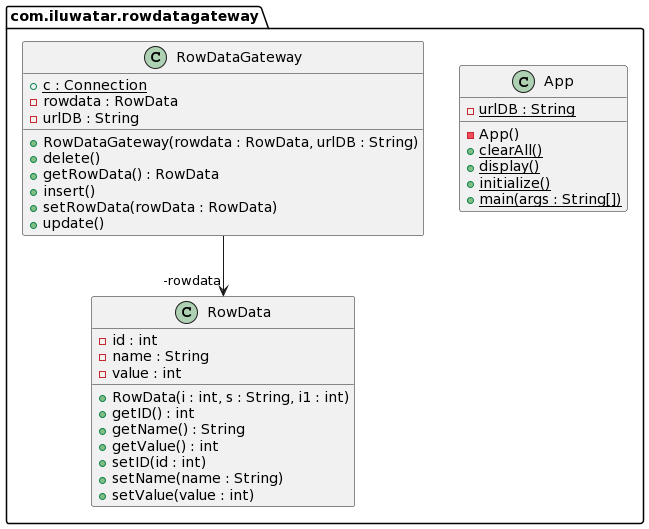
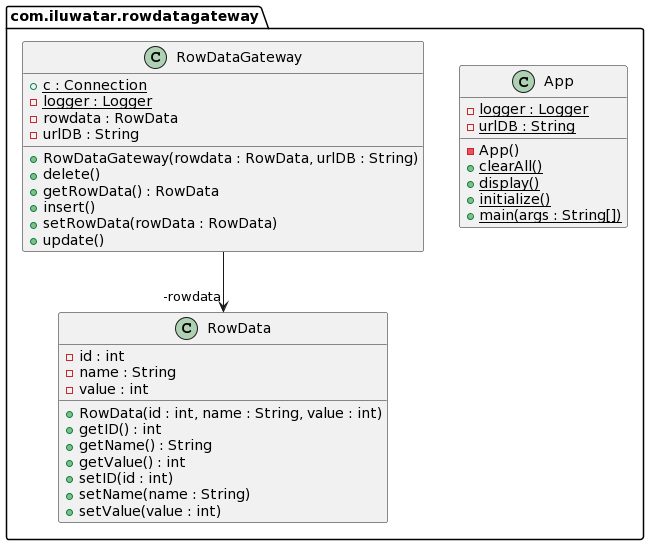
#1312 Implemented feedback on logger and javadocs. Also added license to all classes.

Changed region(s): [[0.0, 0.0, 0.9861, 0.4839], [0.0308, 0.5142, 0.9861, 0.9981], [0.7088, 0.121, 0.9861, 0.4234]]

diff --git a/row-data-gateway/src/main/java/com/iluwatar/rowdatagateway/RowDataGateway.java b/row-data-gateway/src/main/java/com/iluwatar/rowdatagateway/RowDataGateway.java
@@ -1,10 +1,41 @@
+/*
+ * This project is licensed under the MIT license. Module model-view-viewmodel is using ZK framework licensed under LGPL (see lgpl-3.0.txt).
+ *
+ * The MIT License
+ * Copyright © 2014-2022 Ilkka Seppälä
+ *
+ * Permission is hereby granted, free of charge, to any person obtaining a copy
+ * of this software and associated documentation files (the "Software"), to deal
+ * in the Software without restriction, including without limitation the rights
+ * to use, copy, modify, merge, publish, distribute, sublicense, and/or sell
+ * copies of the Software, and to permit persons to whom the Software is
+ * furnished to do so, subject to the following conditions:
+ *
+ * The above copyright notice and this permission notice shall be included in
+ * all copies or substantial portions of the Software.
+ *
+ * THE SOFTWARE IS PROVIDED "AS IS", WITHOUT WARRANTY OF ANY KIND, EXPRESS OR
+ * IMPLIED, INCLUDING BUT NOT LIMITED TO THE WARRANTIES OF MERCHANTABILITY,
+ * FITNESS FOR A PARTICULAR PURPOSE AND NONINFRINGEMENT. IN NO EVENT SHALL THE
+ * AUTHORS OR COPYRIGHT HOLDERS BE LIABLE FOR ANY CLAIM, DAMAGES OR OTHER
+ * LIABILITY, WHETHER IN AN ACTION OF CONTRACT, TORT OR OTHERWISE, ARISING FROM,
+ * OUT OF OR IN CONNECTION WITH THE SOFTWARE OR THE USE OR OTHER DEALINGS IN
+ * THE SOFTWARE.
+ */
 package com.iluwatar.rowdatagateway;
 
 import java.sql.Connection;
 import java.sql.DriverManager;
 import java.sql.Statement;
+import org.slf4j.Logger;
+import org.slf4j.LoggerFactory;
 
 public class RowDataGateway {
+  /**
+   * Logger.
+   */
+  private static final Logger logger = LoggerFactory.getLogger(RowDataGateway.class);
+
   /**
    * Variables to store the URL and rowData.
    */
@@ -49,13 +80,13 @@ public class RowDataGateway {
 
       stmt = c.createStatement();
       String sql = "INSERT INTO rowDataTable (ID,NAME,VALUE) " + "VALUES (" + rowdata.getID() + ", '" + rowdata.getName() + "', " + rowdata.getValue() + ");";
-      System.out.println(sql);
+      logger.info(sql);
       stmt.executeUpdate(sql);
       stmt.close();
       c.commit();
       c.close();
     } catch (Exception e) {
-      System.err.println(e.getClass().getName() + ": " + e.getMessage());
+      logger.info(e.getClass().getName() + ": " + e.getMessage());
       System.exit(0);
     }
   }
@@ -71,12 +102,13 @@ public class RowDataGateway {
 
       stmt = c.createStatement();
       String sql = "UPDATE rowDataTable set NAME = '" + rowdata.getName() + "', VALUE = " + rowdata.getValue() + " where ID=" + rowdata.getID() + ";";
+      logger.info(sql);
       stmt.executeUpdate(sql);
       c.commit();
       stmt.close();
       c.close();
     } catch (Exception e) {
-      System.err.println(e.getClass().getName() + ": " + e.getMessage());
+      logger.info(e.getClass().getName() + ": " + e.getMessage());
       System.exit(0);
     }
   }
@@ -92,12 +124,13 @@ public class RowDataGateway {
 
       stmt = c.createStatement();
       String sql = "DELETE FROM rowDataTable WHERE NAME = '" + rowdata.getName() + "' AND VALUE = " + rowdata.getValue() + " AND ID=" + rowdata.getID() + ";";
+      logger.info(sql);
       stmt.executeUpdate(sql);
       c.commit();
       stmt.close();
       c.close();
     } catch (Exception e) {
-      System.err.println(e.getClass().getName() + ": " + e.getMessage());
+      logger.info(e.getClass().getName() + ": " + e.getMessage());
       System.exit(0);
     }
   }

diff --git a/row-data-gateway/src/main/java/com/iluwatar/rowdatagateway/App.java b/row-data-gateway/src/main/java/com/iluwatar/rowdatagateway/App.java
@@ -1,3 +1,27 @@
+/*
+ * This project is licensed under the MIT license. Module model-view-viewmodel is using ZK framework licensed under LGPL (see lgpl-3.0.txt).
+ *
+ * The MIT License
+ * Copyright © 2014-2022 Ilkka Seppälä
+ *
+ * Permission is hereby granted, free of charge, to any person obtaining a copy
+ * of this software and associated documentation files (the "Software"), to deal
+ * in the Software without restriction, including without limitation the rights
+ * to use, copy, modify, merge, publish, distribute, sublicense, and/or sell
+ * copies of the Software, and to permit persons to whom the Software is
+ * furnished to do so, subject to the following conditions:
+ *
+ * The above copyright notice and this permission notice shall be included in
+ * all copies or substantial portions of the Software.
+ *
+ * THE SOFTWARE IS PROVIDED "AS IS", WITHOUT WARRANTY OF ANY KIND, EXPRESS OR
+ * IMPLIED, INCLUDING BUT NOT LIMITED TO THE WARRANTIES OF MERCHANTABILITY,
+ * FITNESS FOR A PARTICULAR PURPOSE AND NONINFRINGEMENT. IN NO EVENT SHALL THE
+ * AUTHORS OR COPYRIGHT HOLDERS BE LIABLE FOR ANY CLAIM, DAMAGES OR OTHER
+ * LIABILITY, WHETHER IN AN ACTION OF CONTRACT, TORT OR OTHERWISE, ARISING FROM,
+ * OUT OF OR IN CONNECTION WITH THE SOFTWARE OR THE USE OR OTHER DEALINGS IN
+ * THE SOFTWARE.
+ */
 package com.iluwatar.rowdatagateway;
 
 import java.sql.Connection;
@@ -5,6 +29,8 @@ import java.sql.DriverManager;
 import java.sql.ResultSet;
 import java.sql.SQLException;
 import java.sql.Statement;
+import org.slf4j.Logger;
+import org.slf4j.LoggerFactory;
 
 /**
  * This acts as a 'gateway' to a single record in a database, with one instance per row.
@@ -16,6 +42,10 @@ import java.sql.Statement;
  * through Insert, Update and Delete methods in {@link RowDataGateway}</p>
  */
 public class App {
+  /**
+   * Logger.
+   */
+  private static final Logger logger = LoggerFactory.getLogger(App.class);
   /**
    * The URL that determines the database to connect to. In this example code, this is SQLLite's test database.
    */
@@ -71,7 +101,7 @@ public class App {
       stmt.close();
       c.close();
     } catch (Exception e) {
-      System.err.println(e.getClass().getName() + ": " + e.getMessage());
+      logger.info(e.getClass().getName() + ": " + e.getMessage());
       System.exit(0);
     }
   }
@@ -90,7 +120,7 @@ public class App {
       stmt.close();
       c.close();
     } catch (Exception e) {
-      System.err.println(e.getClass().getName() + ": " + e.getMessage());
+      logger.info(e.getClass().getName() + ": " + e.getMessage());
       System.exit(0);
     }
   }
@@ -112,17 +142,13 @@ public class App {
         int id = rs.getInt("id");
         String  name = rs.getString("name");
         int value  = rs.getInt("value");
-
-        System.out.println("ID = " + id);
-        System.out.println("NAME = " + name);
-        System.out.println("VALUE = " + value);
-        System.out.println();
+        logger.info("\nID = " + id + "\nNAME = " + name + "\nVALUE = " + value);
       }
       rs.close();
       stmt.close();
       c.close();
     } catch (Exception e) {
-      System.err.println(e.getClass().getName() + ": " + e.getMessage());
+      logger.info(e.getClass().getName() + ": " + e.getMessage());
       System.exit(0);
     }
   }

diff --git a/row-data-gateway/src/main/java/com/iluwatar/rowdatagateway/RowData.java b/row-data-gateway/src/main/java/com/iluwatar/rowdatagateway/RowData.java
@@ -1,3 +1,27 @@
+/*
+ * This project is licensed under the MIT license. Module model-view-viewmodel is using ZK framework licensed under LGPL (see lgpl-3.0.txt).
+ *
+ * The MIT License
+ * Copyright © 2014-2022 Ilkka Seppälä
+ *
+ * Permission is hereby granted, free of charge, to any person obtaining a copy
+ * of this software and associated documentation files (the "Software"), to deal
+ * in the Software without restriction, including without limitation the rights
+ * to use, copy, modify, merge, publish, distribute, sublicense, and/or sell
+ * copies of the Software, and to permit persons to whom the Software is
+ * furnished to do so, subject to the following conditions:
+ *
+ * The above copyright notice and this permission notice shall be included in
+ * all copies or substantial portions of the Software.
+ *
+ * THE SOFTWARE IS PROVIDED "AS IS", WITHOUT WARRANTY OF ANY KIND, EXPRESS OR
+ * IMPLIED, INCLUDING BUT NOT LIMITED TO THE WARRANTIES OF MERCHANTABILITY,
+ * FITNESS FOR A PARTICULAR PURPOSE AND NONINFRINGEMENT. IN NO EVENT SHALL THE
+ * AUTHORS OR COPYRIGHT HOLDERS BE LIABLE FOR ANY CLAIM, DAMAGES OR OTHER
+ * LIABILITY, WHETHER IN AN ACTION OF CONTRACT, TORT OR OTHERWISE, ARISING FROM,
+ * OUT OF OR IN CONNECTION WITH THE SOFTWARE OR THE USE OR OTHER DEALINGS IN
+ * THE SOFTWARE.
+ */
 package com.iluwatar.rowdatagateway;
 
 public class RowData {
@@ -9,14 +33,14 @@ public class RowData {
    * Public constructor.
    * this is the ID of the row, should always be present.
    * the following data types and the number of them should vary depending on the Columns of the SQL Table.
-   * @param i int
-   * @param s String
-   * @param i1 int
+   * @param id id of the row
+   * @param name name of the row
+   * @param value value of the row
    */
-  public RowData(int i, String s, int i1) {
-    this.id = i;
-    this.name = s;
-    this.value = i1;
+  public RowData(int id, String name, int value) {
+    this.id = id;
+    this.name = name;
+    this.value = value;
   }
   /**
    * Gets current name of the rowData.

diff --git a/row-data-gateway/src/test/java/com/iluwatar/rowdatagateway/AppTest.java b/row-data-gateway/src/test/java/com/iluwatar/rowdatagateway/AppTest.java
@@ -1,3 +1,27 @@
+/*
+ * This project is licensed under the MIT license. Module model-view-viewmodel is using ZK framework licensed under LGPL (see lgpl-3.0.txt).
+ *
+ * The MIT License
+ * Copyright © 2014-2022 Ilkka Seppälä
+ *
+ * Permission is hereby granted, free of charge, to any person obtaining a copy
+ * of this software and associated documentation files (the "Software"), to deal
+ * in the Software without restriction, including without limitation the rights
+ * to use, copy, modify, merge, publish, distribute, sublicense, and/or sell
+ * copies of the Software, and to permit persons to whom the Software is
+ * furnished to do so, subject to the following conditions:
+ *
+ * The above copyright notice and this permission notice shall be included in
+ * all copies or substantial portions of the Software.
+ *
+ * THE SOFTWARE IS PROVIDED "AS IS", WITHOUT WARRANTY OF ANY KIND, EXPRESS OR
+ * IMPLIED, INCLUDING BUT NOT LIMITED TO THE WARRANTIES OF MERCHANTABILITY,
+ * FITNESS FOR A PARTICULAR PURPOSE AND NONINFRINGEMENT. IN NO EVENT SHALL THE
+ * AUTHORS OR COPYRIGHT HOLDERS BE LIABLE FOR ANY CLAIM, DAMAGES OR OTHER
+ * LIABILITY, WHETHER IN AN ACTION OF CONTRACT, TORT OR OTHERWISE, ARISING FROM,
+ * OUT OF OR IN CONNECTION WITH THE SOFTWARE OR THE USE OR OTHER DEALINGS IN
+ * THE SOFTWARE.
+ */
 package com.iluwatar.rowdatagateway;
 
 import org.junit.jupiter.api.Test;

diff --git a/row-data-gateway/src/test/java/com/iluwatar/rowdatagateway/RowDataGatewayTest.java b/row-data-gateway/src/test/java/com/iluwatar/rowdatagateway/RowDataGatewayTest.java
@@ -1,3 +1,27 @@
+/*
+ * This project is licensed under the MIT license. Module model-view-viewmodel is using ZK framework licensed under LGPL (see lgpl-3.0.txt).
+ *
+ * The MIT License
+ * Copyright © 2014-2022 Ilkka Seppälä
+ *
+ * Permission is hereby granted, free of charge, to any person obtaining a copy
+ * of this software and associated documentation files (the "Software"), to deal
+ * in the Software without restriction, including without limitation the rights
+ * to use, copy, modify, merge, publish, distribute, sublicense, and/or sell
+ * copies of the Software, and to permit persons to whom the Software is
+ * furnished to do so, subject to the following conditions:
+ *
+ * The above copyright notice and this permission notice shall be included in
+ * all copies or substantial portions of the Software.
+ *
+ * THE SOFTWARE IS PROVIDED "AS IS", WITHOUT WARRANTY OF ANY KIND, EXPRESS OR
+ * IMPLIED, INCLUDING BUT NOT LIMITED TO THE WARRANTIES OF MERCHANTABILITY,
+ * FITNESS FOR A PARTICULAR PURPOSE AND NONINFRINGEMENT. IN NO EVENT SHALL THE
+ * AUTHORS OR COPYRIGHT HOLDERS BE LIABLE FOR ANY CLAIM, DAMAGES OR OTHER
+ * LIABILITY, WHETHER IN AN ACTION OF CONTRACT, TORT OR OTHERWISE, ARISING FROM,
+ * OUT OF OR IN CONNECTION WITH THE SOFTWARE OR THE USE OR OTHER DEALINGS IN
+ * THE SOFTWARE.
+ */
 package com.iluwatar.rowdatagateway;
 
 import org.junit.jupiter.api.Test;

diff --git a/row-data-gateway/src/test/java/com/iluwatar/rowdatagateway/RowDataTest.java b/row-data-gateway/src/test/java/com/iluwatar/rowdatagateway/RowDataTest.java
@@ -1,3 +1,27 @@
+/*
+ * This project is licensed under the MIT license. Module model-view-viewmodel is using ZK framework licensed under LGPL (see lgpl-3.0.txt).
+ *
+ * The MIT License
+ * Copyright © 2014-2022 Ilkka Seppälä
+ *
+ * Permission is hereby granted, free of charge, to any person obtaining a copy
+ * of this software and associated documentation files (the "Software"), to deal
+ * in the Software without restriction, including without limitation the rights
+ * to use, copy, modify, merge, publish, distribute, sublicense, and/or sell
+ * copies of the Software, and to permit persons to whom the Software is
+ * furnished to do so, subject to the following conditions:
+ *
+ * The above copyright notice and this permission notice shall be included in
+ * all copies or substantial portions of the Software.
+ *
+ * THE SOFTWARE IS PROVIDED "AS IS", WITHOUT WARRANTY OF ANY KIND, EXPRESS OR
+ * IMPLIED, INCLUDING BUT NOT LIMITED TO THE WARRANTIES OF MERCHANTABILITY,
+ * FITNESS FOR A PARTICULAR PURPOSE AND NONINFRINGEMENT. IN NO EVENT SHALL THE
+ * AUTHORS OR COPYRIGHT HOLDERS BE LIABLE FOR ANY CLAIM, DAMAGES OR OTHER
+ * LIABILITY, WHETHER IN AN ACTION OF CONTRACT, TORT OR OTHERWISE, ARISING FROM,
+ * OUT OF OR IN CONNECTION WITH THE SOFTWARE OR THE USE OR OTHER DEALINGS IN
+ * THE SOFTWARE.
+ */
 package com.iluwatar.rowdatagateway;
 
 import org.junit.jupiter.api.Test;

diff --git a/row-data-gateway/README.md b/row-data-gateway/README.md
@@ -44,14 +44,14 @@ public class RowData {
    * Public constructor.
    * i is the ID of the row, should always be present.
    * the following data types and the number of them should vary depending on the Columns of the SQL Table.
-   * @param i int
-   * @param s String
-   * @param i1 int
+   * @param id: id of the row
+   * @param name: name of the row 
+   * @param value: value of the row
    */
-  public RowData(int i, String s, int i1) {
-    this.id = i;
-    this.name = s;
-    this.value = i1;
+  public RowData(int id, String name, int value) {
+    this.id = id;
+    this.name = name;
+    this.value = value;
   }
   /**
    * Gets current name of the rowData.
@@ -103,6 +103,10 @@ The gateway acts as an interface for each row of data in the database.
 The `RowDataGateway` class:
 ```java
 public class RowDataGateway {
+  /**
+   * Logger.
+   */
+  private static final Logger logger = LoggerFactory.getLogger(RowDataGateway.class);
   /**
    * Variables to store the URL and rowData.
    */
@@ -179,6 +183,10 @@ import java.sql.Statement;
  * through Insert, Update and Delete methods in {@link RowDataGateway}</p>
  */
 public class App {
+  /**
+   * Logger.
+   */
+  private static final Logger logger = LoggerFactory.getLogger(App.class);
   /**
    * The URL that determines the database to connect to. In this example code, this is SQLLite's test database.
    */
